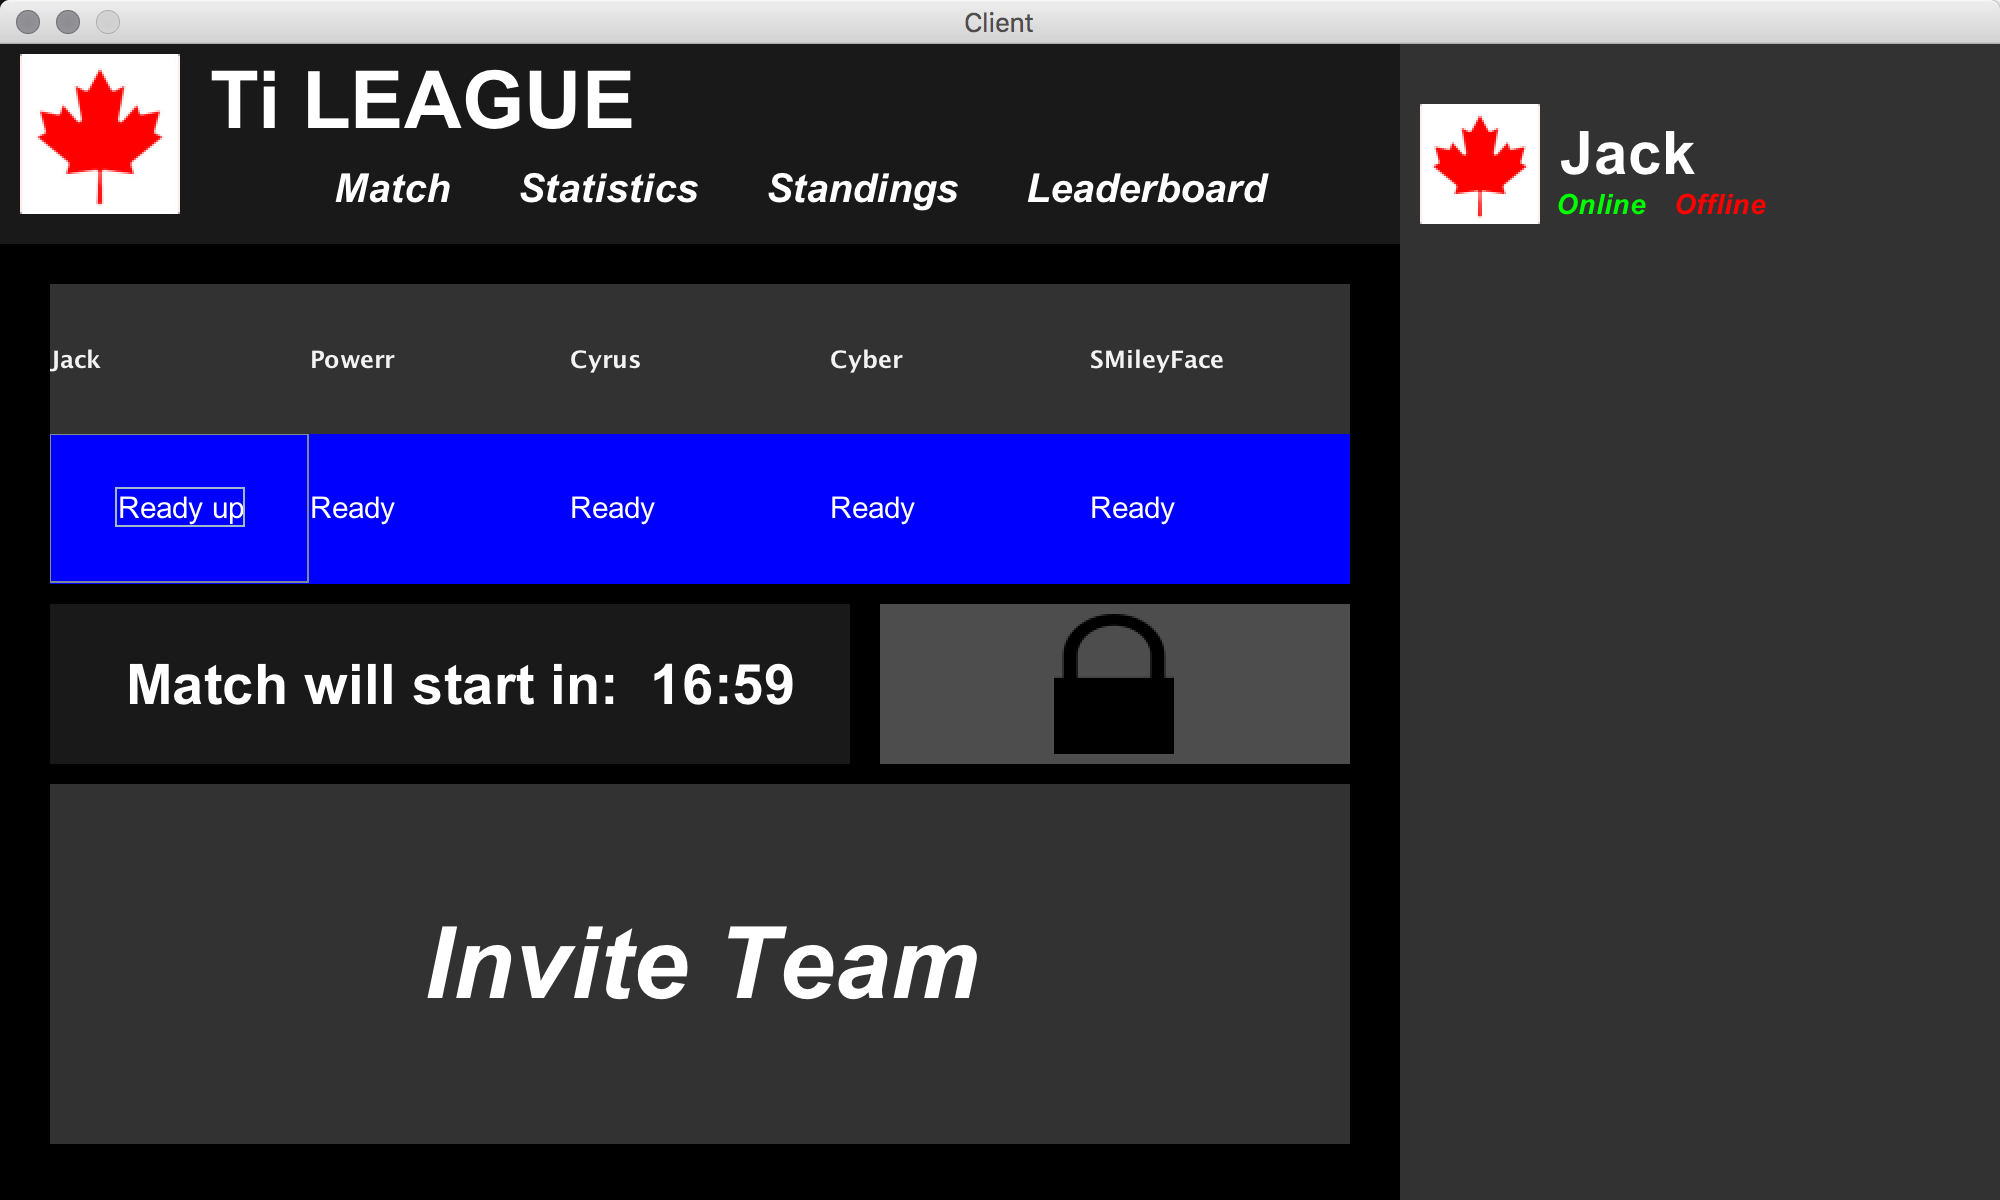
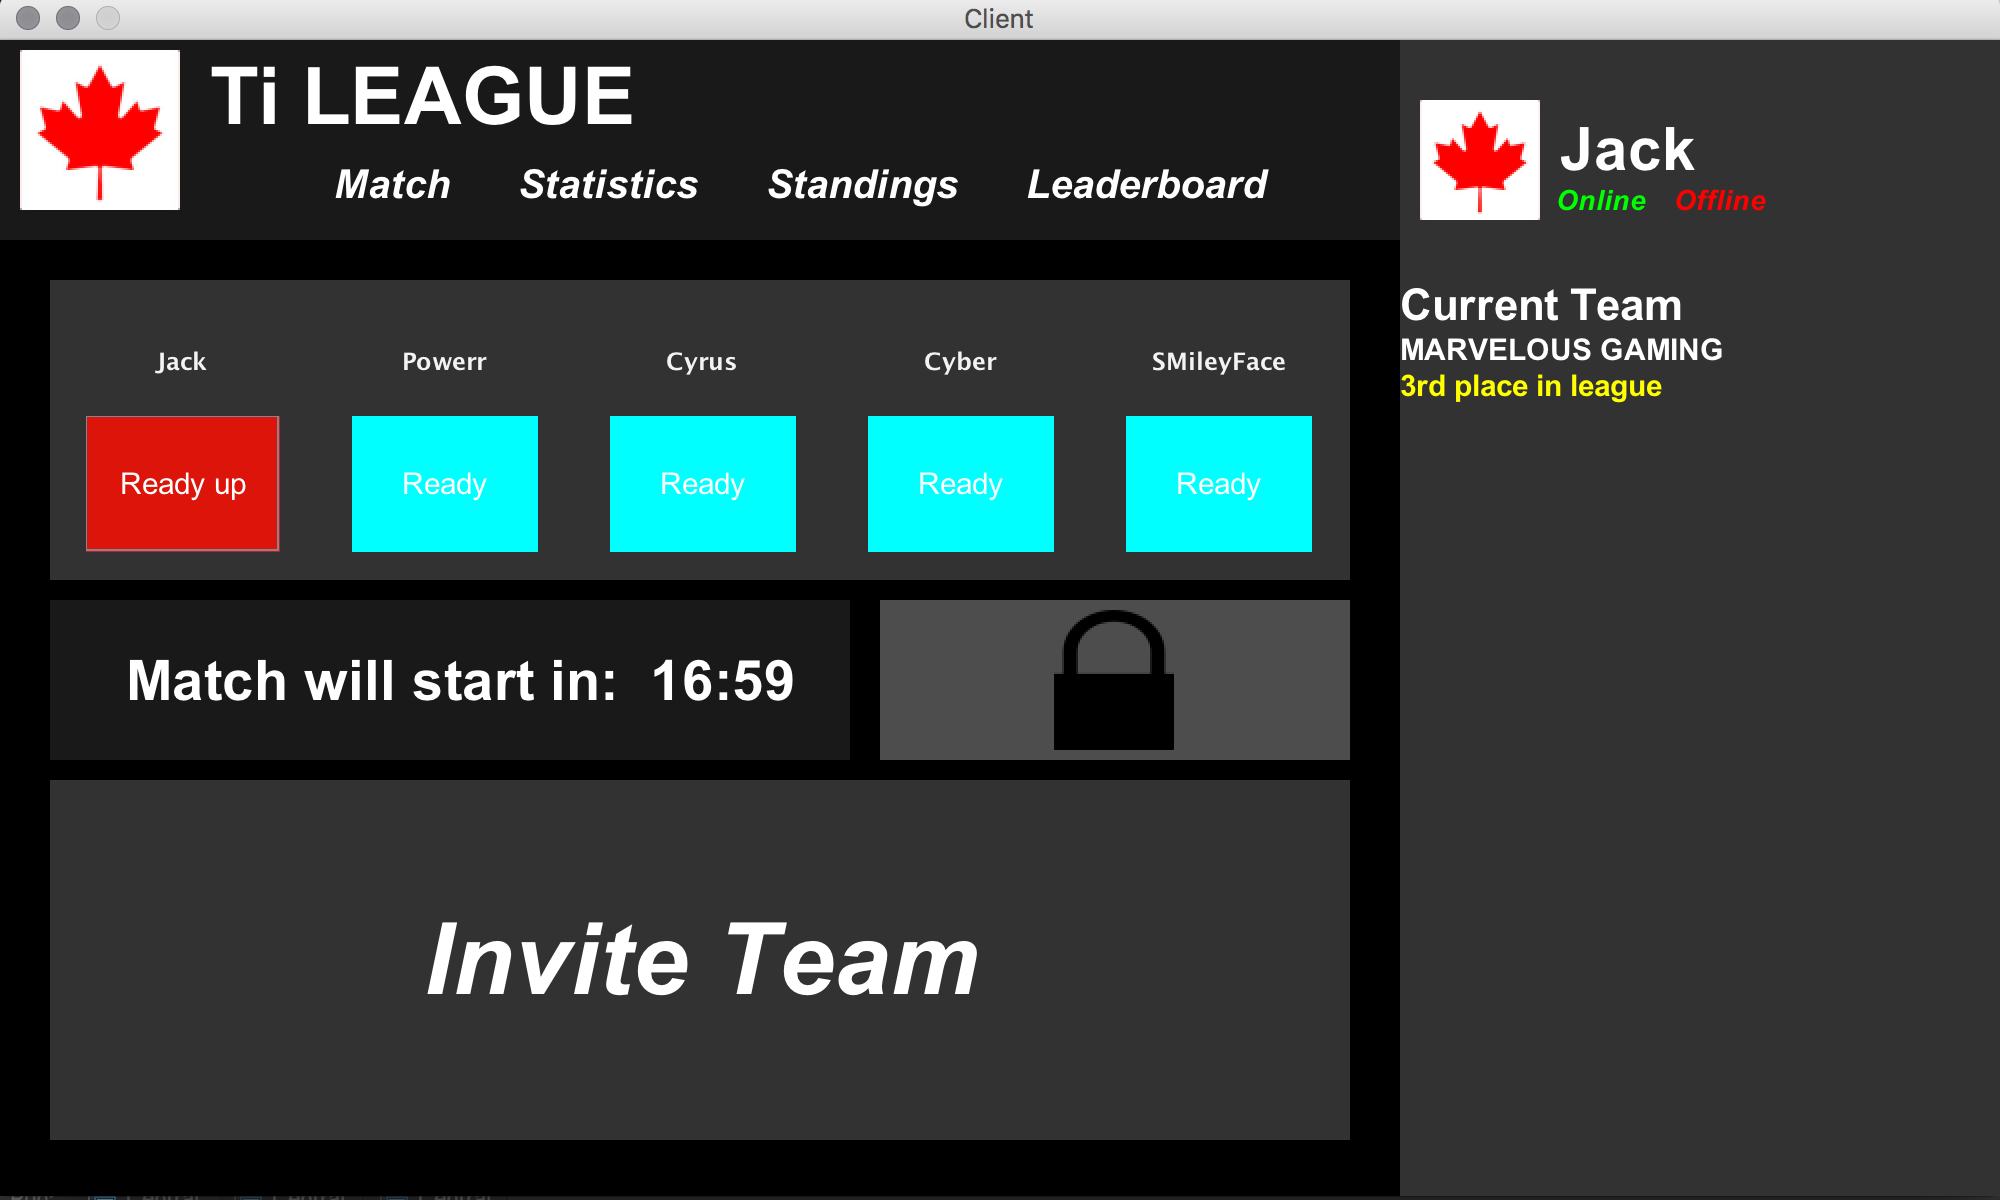
18 days and I got some blue boxes

diff --git a/CsgoLeague/src/GUI/StartMenuPanels/Roster.java b/CsgoLeague/src/GUI/StartMenuPanels/Roster.java
@@ -19,36 +19,104 @@ public class Roster {
     private JLabel player1, player2, player3, player4, player5, button2, button3, button4, button5;
     private JButton button1;
 
-    //button2, button3, button4, button5;
+    GridBagConstraints c = new GridBagConstraints();
 
     public void initRoster(){
         //Player names container
         players = jMethods.createJPanel(650, 150, 25, 120, colors.sideBar);
-        players.setLayout(new GridLayout(2,5));
+        players.setLayout(new GridBagLayout());
 
         player1 = jMethods.createPlayerJLabel("Jack", colors.playerText);
+        player1.setHorizontalAlignment(0);
+
         player2 = jMethods.createPlayerJLabel("Powerr", colors.playerText);
+        player2.setHorizontalAlignment(0);
+
         player3 = jMethods.createPlayerJLabel("Cyrus", colors.playerText);
+        player3.setHorizontalAlignment(0);
+
         player4 = jMethods.createPlayerJLabel("Cyber", colors.playerText);
+        player4.setHorizontalAlignment(0);
+
         player5 = jMethods.createPlayerJLabel("SMileyFace", colors.playerText);
+        player5.setHorizontalAlignment(0);
 
-        players.add(player1);
-        players.add(player2);
-        players.add(player3);
-        players.add(player4);
-        players.add(player5);
+        //Making grid contraints
+        c.fill = GridBagConstraints.HORIZONTAL;
+        c.anchor = GridBagConstraints.CENTER;
 
-        button1 = jMethods.createJButton("Ready up", 15, 100, 20, Color.white, Color.BLUE);
-        button2 = jMethods.createTestPlayerJLabel("Ready", 15, Color.BLUE, Color.WHITE);
-        button3 = jMethods.createTestPlayerJLabel("Ready", 15, Color.BLUE, Color.WHITE);
-        button4 = jMethods.createTestPlayerJLabel("Ready", 15, Color.BLUE, Color.WHITE);
-        button5 = jMethods.createTestPlayerJLabel("Ready", 15, Color.BLUE, Color.WHITE);
+        c.gridx = 0;
+        c.gridy = 0;
+        c.insets = new Insets(30, 20, 10, 20);
 
-        players.add(button1);
-        players.add(button2);
-        players.add(button3);
-        players.add(button4);
-        players.add(button5);
+        players.add(player1, c);
+
+        c.gridx = 1;
+        c.gridy = 0;
+
+        players.add(player2, c);
+
+        c.gridx = 2;
+        c.gridy = 0;
+
+        players.add(player3, c);
+
+        c.gridx = 3;
+        c.gridy = 0;
+
+        players.add(player4, c);
+
+        c.gridx = 4;
+        c.gridy = 0;
+
+        players.add(player5, c);
+
+        button1 = jMethods.createJButton("Ready up", 15, 100, 20, Color.white, colors.notReady);
+        button1.setHorizontalAlignment(0);
+
+        button2 = jMethods.createTestPlayerJLabel("Ready", 15, colors.ready, Color.WHITE);
+        button2.setHorizontalAlignment(0);
+
+        button3 = jMethods.createTestPlayerJLabel("Ready", 15, colors.ready, Color.WHITE);
+        button3.setHorizontalAlignment(0);
+
+        button4 = jMethods.createTestPlayerJLabel("Ready", 15, colors.ready, Color.WHITE);
+        button4.setHorizontalAlignment(0);
+
+        button5 = jMethods.createTestPlayerJLabel("Ready", 15, colors.ready, Color.WHITE);
+        button5.setHorizontalAlignment(0);
+
+        //Making grid contraints
+        c.gridx = 0;
+        c.gridy = 2;
+        c.insets = new Insets(10, 18, 10, 18);
+        c.ipady = 40;
+        c.ipadx = 0;
+
+        players.add(button1, c, SwingConstants.CENTER);
+
+        c.gridx = 1;
+        c.gridy = 2;
+        c.ipadx = 50;
+        c.ipady = 50;
+
+        players.add(button2, c);
+
+        c.gridx = 2;
+        c.gridy = 2;
+
+        players.add(button3, c);
+
+        c.gridx = 3;
+        c.gridy = 2;
+
+        players.add(button4, c);
+
+        c.gridx = 4;
+        c.gridy = 2;
+
+        players.add(button5, c);
+
 
     }
 

diff --git a/CsgoLeague/src/GUI/StartMenuPanels/SideBar.java b/CsgoLeague/src/GUI/StartMenuPanels/SideBar.java
@@ -18,7 +18,7 @@ public class SideBar {
     private JButton statusOnline, statusOffline;
 
     public void initSideBar(){
-        User = jMethods.createJPanel(300, 100, 700, 0, colors.sideBar);
+        User = jMethods.createJPanel(300, 120, 700, 0, colors.sideBar);
         User.setLayout(null);
         //Profile picture scaling
         profilePic = jMethods.createJLabel("", 0, 10, 30, 60, 60, Color.BLACK);
@@ -41,7 +41,7 @@ public class SideBar {
         User.add(statusOnline);
         User.add(statusOffline);
 
-        team = jMethods.createJPanel(300, 100, 700, 100, colors.sideBar);
+        team = jMethods.createJPanel(300, 100, 700, 120, colors.sideBar);
         team.setLayout(new BoxLayout(team, BoxLayout.PAGE_AXIS));
 
         currentTeam = jMethods.createTestJLabel("Current Team", 22, Color.white);
@@ -52,7 +52,7 @@ public class SideBar {
         team.add(myTeam);
         team.add(teamStanding);
 
-        matches = jMethods.createJPanel(300, 400, 700, 200, colors.sideBar);
+        matches = jMethods.createJPanel(300, 360, 700, 220, colors.sideBar);
     }
 
     public JPanel getMatches() {

diff --git a/CsgoLeague/src/Resources/Colors.java b/CsgoLeague/src/Resources/Colors.java
@@ -8,6 +8,6 @@ public class Colors {
     public Color sideBar = new Color(50, 50, 50);
     public Color createMatch = new Color(77, 77, 77);
     public Color playerText = new Color(243, 243, 243);
-    public Color ready = new Color(0, 200, 200);
+    public Color ready = new Color(0, 255, 255);
     public Color notReady = new Color(220, 20, 10);
 }
